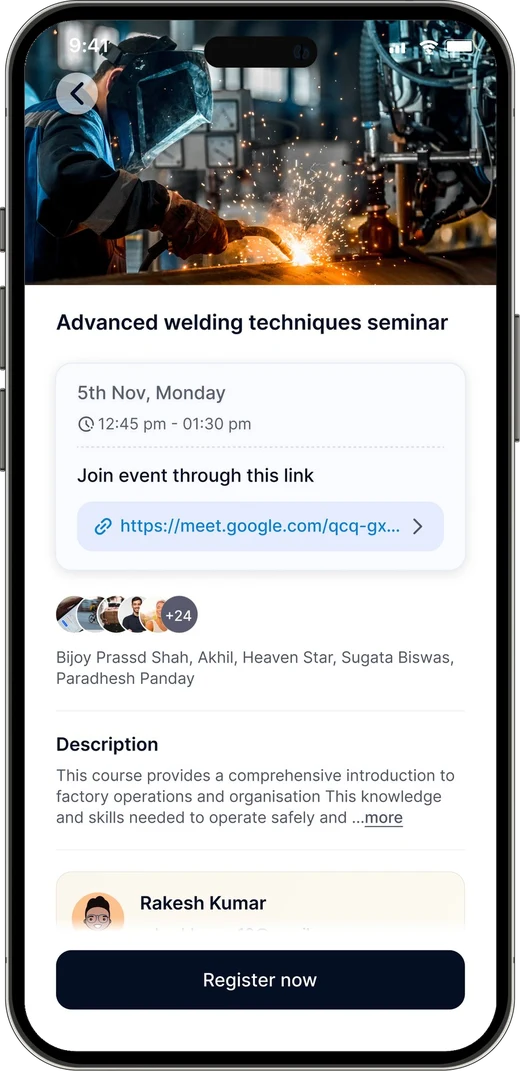
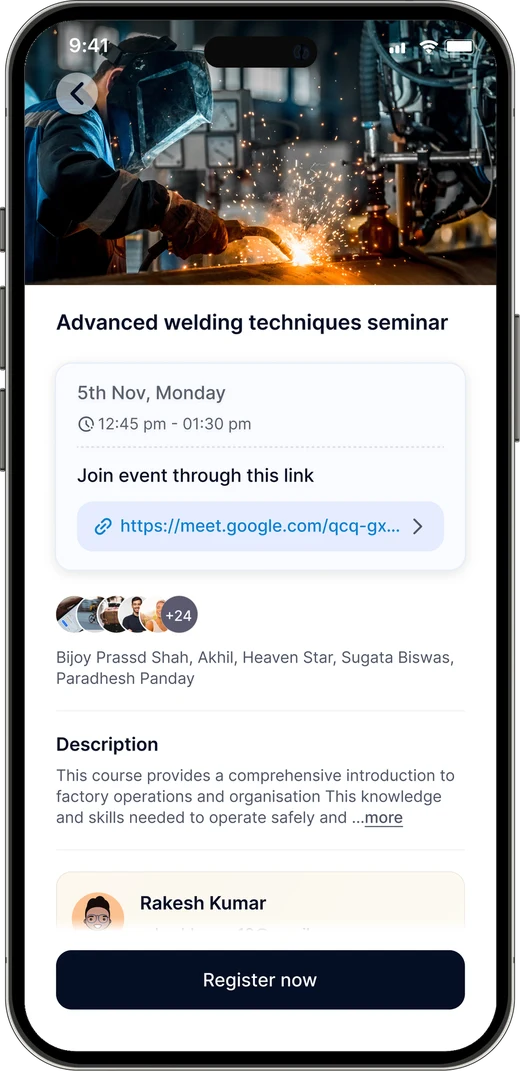
Carousels: centred when every card fits, no arrows then; readable status bar over event photos

Changed region(s): [[0.0615, 0.0, 0.6154, 0.0924], [0.6769, 0.0, 0.9538, 0.0924]]

diff --git a/work-skilling.html b/work-skilling.html
@@ -540,8 +540,11 @@ body.cs-lb-lock { overflow: hidden; }
 }
 .cs-strip-btn:hover:not(:disabled) { color: var(--accent); border-color: var(--accent); }
 .cs-strip-btn:disabled { opacity: 0.35; cursor: default; }
+/* nothing to scroll: no arrows */
+.cs-strip.is-static .cs-strip-ctl { visibility: hidden; }
 .cs-strip-btn:focus-visible, .cs-strip-track:focus-visible { outline: 2px solid var(--accent); outline-offset: 3px; }
-.cs-strip-track { display: flex; gap: 20px; overflow-x: auto; padding-bottom: 6px; scroll-snap-type: x mandatory; scrollbar-width: none; -webkit-overflow-scrolling: touch; border-radius: 12px; }
+/* when every card fits, the row sits centred; once it overflows, "safe" keeps it scrolling from the start */
+.cs-strip-track { display: flex; justify-content: safe center; gap: 20px; overflow-x: auto; padding-bottom: 6px; scroll-snap-type: x mandatory; scrollbar-width: none; -webkit-overflow-scrolling: touch; border-radius: 12px; }
 .cs-strip-track::-webkit-scrollbar { display: none; }
 .cs-strip-item { flex: 0 0 auto; display: flex; flex-direction: column; scroll-snap-align: start; }
 .cs-strip-media {
@@ -2407,6 +2410,7 @@ var CS_REDUCE = window.matchMedia && window.matchMedia('(prefers-reduced-motion:
       raf = null;
       prev.disabled = track.scrollLeft <= 4;
       next.disabled = track.scrollLeft >= track.scrollWidth - track.clientWidth - 4;
+      root.classList.toggle('is-static', track.scrollWidth <= track.clientWidth + 4);
     }
     function queue() { if (!raf) raf = requestAnimationFrame(sync); }
     [prev, next].forEach(function(b) {
